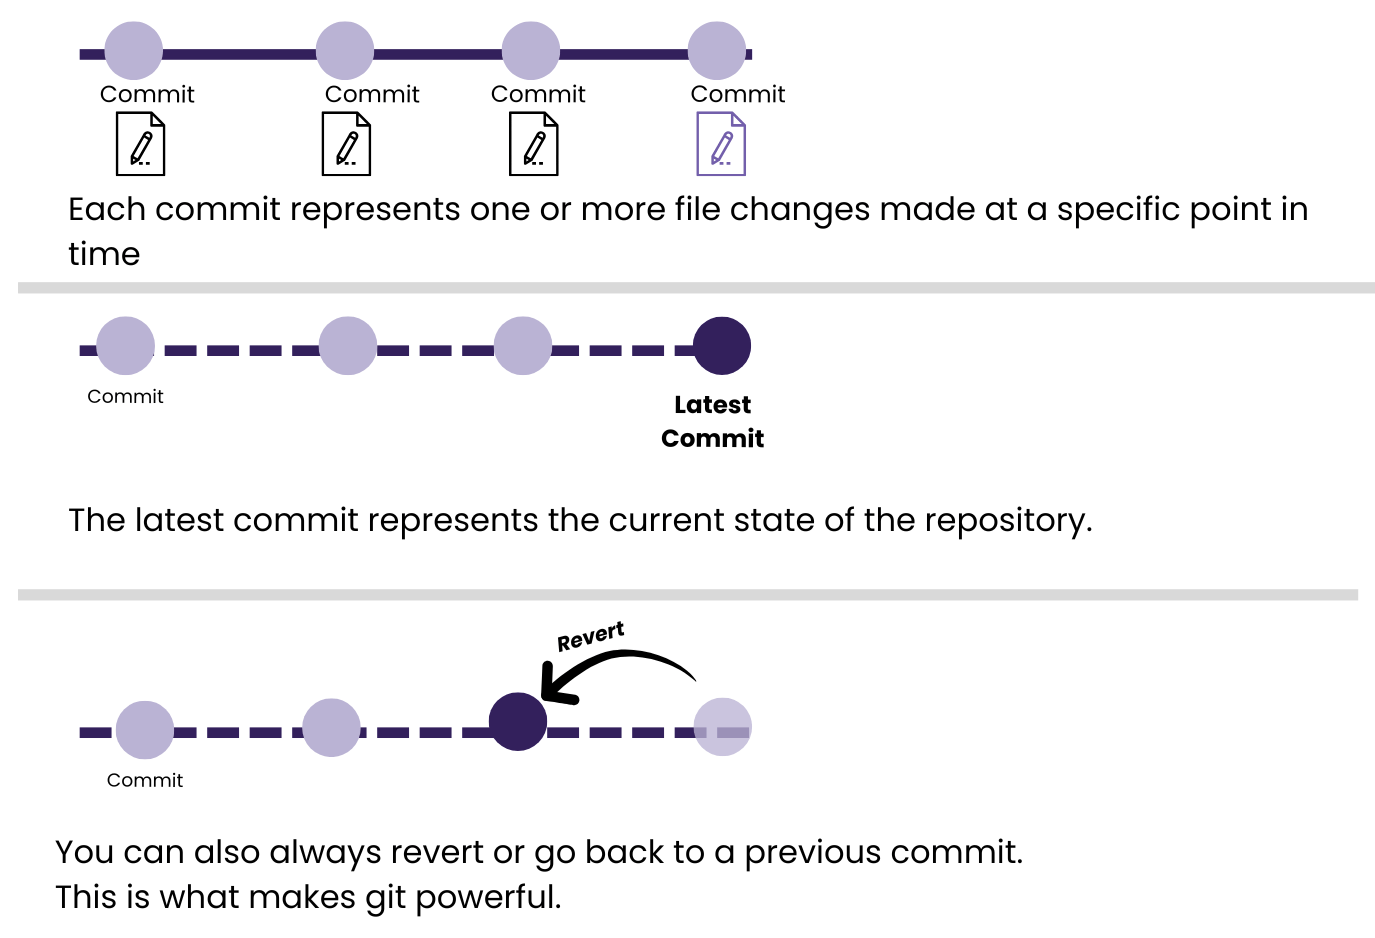
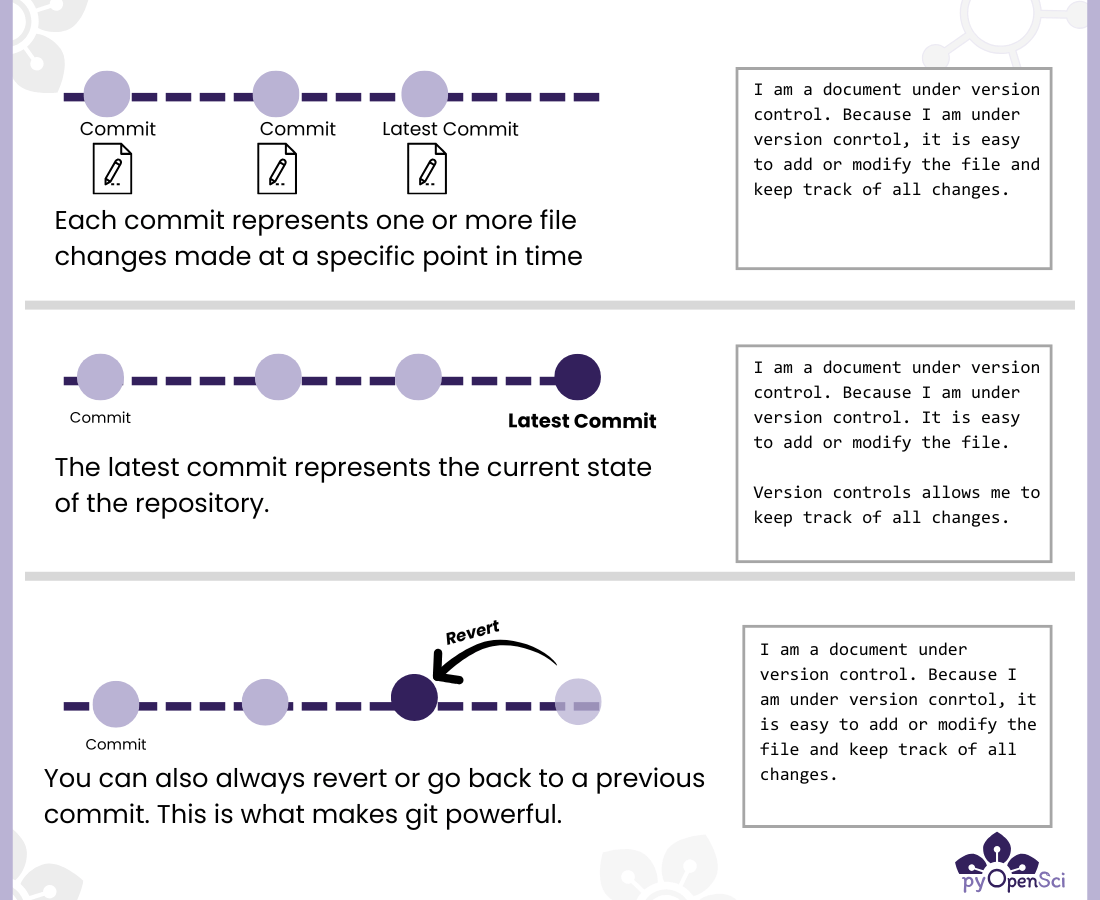
add: edit lesson

Changed region(s): [[0.0, 0.0, 1.0, 1.0], [0.2164, 0.7467, 0.2782, 0.7778]]

diff --git a/github-git/4-edit-commit-files.md b/github-git/4-edit-commit-files.md
@@ -13,33 +13,31 @@ kernelspec:
 
 # Your first edits to a file in your fork 
 
-:::{admonition} Activity: Fork a repository and modify a file
-:class: tip
-In this lesson, you will edit a file in the demo pyOpenSci repository using the GitHub interface in your [forked repo](3-fork-repo). You do not need to [clone or make a copy of your repo locally](clone-repo) to do this! 
+In the previous lesson, [you identified something that you wanted to fix in our example GitHub repository](3-identify-issue). Ideally, the fix that you identified is small, text-based, and can be made by modifying a single file. 
 
-This is a great way to make your first contribution to open source without needing to know `git` or the command line! 
+After you [forked the repository that you want to contribute to](3-fork-repo) and received approval from a maintainer to work on the issue, it's time to move forward with a pull request!
+
+:::{admonition} What you'll learn here
+:class: tip
+In this lesson, you will edit a file in the demo pyOpenSci repository using the GitHub interface in your [forked repo](3-fork-repo). You will then commit your changes.
 
 :::
 
-In the previous lesson, [you selected or identified something that you wanted to fix in our example GitHub repository](3-identify-issue). Ideally, the fix that you identified is small, text-based, and can be made by modifying a single file. Small contributions are a great way to start.
 
-After you [forked the repository](3-fork-repo) you are contributing to and received the OK to move forward with your pull request through an open issue, you are ready to get to work.
-
-Here you will make the changes that you proposed to work on using only the native GitHub interface.
+Here, you will make the changes that you proposed to work on using only the native GitHub interface. 
+You do not need to [clone or make a copy of your repo locally](clone-repo) to do this! 
 
 
 :::{admonition} Activity: Make a change to a file and commit it to your fork 
 
-**1. Go to your fork**
-*******
-**2. In the GitHub interface, click on the file that you proposed to modify or fix [in the identify issue lesson](2-identify-issue).**: instructions on how to do this are below
-*******
-**3. Click on the edit <kbd><i class="fa-solid fa-pencil"></i></kbd> button in the GitHub interface.**
-*******
-**4. Make the edits that you proposed in your issue to the file.**
-*******
-**5. Hit the <kbd>commit</kbd> button to save your edits** 
-**6. Add a descriptive commit message that describes the change that you made** 
+It's time to make the changes to a file in your fork that you proposed in the open issue:
+
+1. Navigate to your fork on GitHub.com
+2. In the GitHub interface, click on the file that you proposed to modify or fix [in the identify issue lesson](2-identify-issue): instructions on how to do this are below
+3. Click on the edit <kbd><i class="fa-solid fa-pencil"></i></kbd> button in the GitHub interface.
+4. Make the edits to the file that you proposed in your issue.
+5. Hit the <kbd>commit</kbd> button to save your edits 
+6. Add a descriptive commit message that describes the change that you made 
 
 Some examples:
 > fix: fixed numerous typos in the filename.py file
@@ -54,31 +52,46 @@ Some examples:
 
 ## About editing files on GitHub
 
-Editing a file on GitHub is a great way to start contributing because it allows you to focus on the contributing workflow without setting up a local development environment.
+Editing a file on GitHub allows you to focus on the contributing workflow without needing to learn or install git, create a local development environment, or use the command line.
 
-Following this process, you can edit as many files as you wish. However, given that you are editing files on GitHub, you must edit and commit them one at a time.  
+Following this process, you can edit as many files as you wish. However, on GitHub, you must edit and commit changes to them individually. 
 
-### Codespaces: Cloud-based development environments on GitHub
-In some cases, projects may use [GitHub codespaces](github-codespaces), which allow you to work on content in a coding environment using an interface like VSCode fully in your browser.
+### How to edit a file on GitHub
 
-However, you will make text changes to a file to build confidence around the contributing workflow.
+TODO: add a screen capture of opening and editing a file. 
+
+
+
+:::{admonition} GitHub Codespaces Provide Online GitHub Development Environments
+
+GitHub Codespaces are cloud development environments that can be created and used on GitHub.
+
+Projects may sometimes offer [GitHub codespaces](github-codespaces), which allows you to edit multiple files and commit them together. You can also create a CodeSpace yourself in your fork! 
+
+GitHub Codespaces allows you to work on content in a cloud-based coding environment using an interface like VSCode fully in your browser. If set up correctly, they can contain a project's development environment.
+:::
 
 ## What is a commit?
 
-Here are 3 points to remember about commits:
+Here are 3 points to remember when you think about commits:
 
-1. A **commit** is a feature in the [git version control](what-is-git) that is similar to saving your changes with a note explaining what you did.
+1. A **commit** is a feature of [git version control](what-is-git) that is similar to saving your changes with a note explaining what you did.
 
-2. Each commit that you make represents a set of changes to one or more files in your repository at a specific time. 
+2. Each commit that you make represents a set of changes to one or more files in your repository at a specific time.
 
-3. You can always revert or undo a set of changes in the commit history. While undoing things in git takes a bit more knowledge, knowing it can be done can give you confidence to make changes without worrying about breaking things! 
-
-:::{figure}  /images/github/git-what-are-commits.png
-:alt: Alt here
+:::{figure}  /images/github/git-commits-files.png
+:alt: A visual example demonstrating how Git tracks changes to a document through commits. The image shows an “Original File” with its initial text, followed by two commits. The first commit adds a new paragraph of text, with the changes highlighted in green and the commit message, “Fix: added a new paragraph to clarify text.” The second commit fixes typos in the text, with the edits also highlighted in green, along with the commit message, “Fix: copy edits.” At the bottom, a comparison shows the document after each commit, illustrating how the file evolves with changes.
 
 :::
 
-::::
+
+3. Because you are using git, you can always revert or undo a set of changes in your commit history. While undoing things in git takes a bit more knowledge, knowing it can be done can give you the confidence to make changes without worrying about breaking things! 
+
+:::{figure}  /images/github/git-what-are-commits.png
+:alt: A diagram explaining Git commits and their role in version control. The top section shows a timeline of circular commits, each paired with a file icon to represent file changes, with the text: “Each commit represents one or more file changes made at a specific point in time.” The middle section highlights the “Latest Commit” on the timeline, showing it as the current state of the repository. The bottom section demonstrates the concept of reverting, with an arrow pointing from a later commit back to a previous one, illustrating that Git allows reverting or going back to earlier commits. The text reads: “You can also always revert or return to a previous commit. This is what makes Git powerful.”
+
+:::
+
 
 :::{todo}
 It might be cool to show first contributions like my first on to nbconvert could be interesting? Other people might have examples too from the community that we could share with some stories about it??
